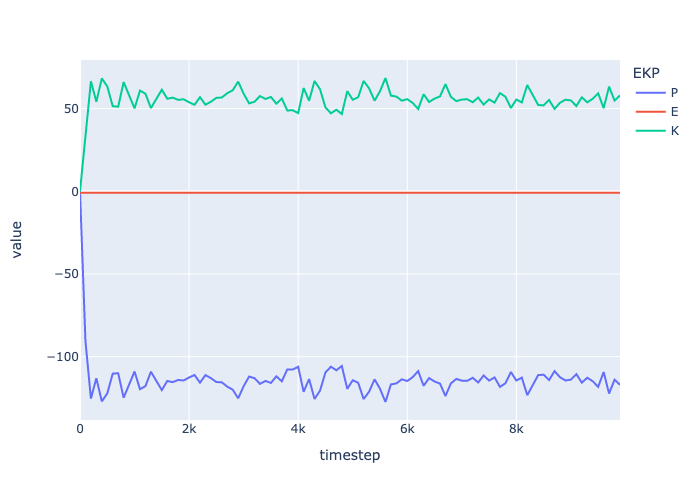
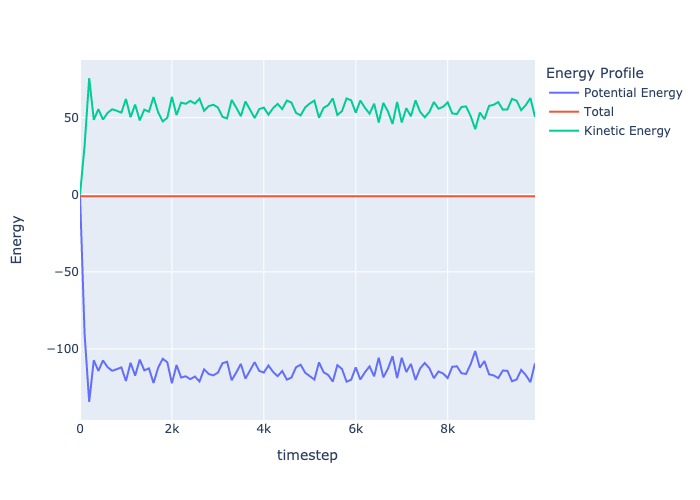
change fig

diff --git a/Step5/traj.py b/Step5/traj.py
@@ -8,18 +8,18 @@ from matplotlib.animation import FuncAnimation
 
 class Traj:
     def __init__(self, iter, atom_num):
-        self.df = pd.DataFrame(columns=["timestep", "EKP", "value"])
+        self.df = pd.DataFrame(columns=["timestep", "Energy Profile", "Energy"])
         self.atom_traj = pd.DataFrame(
-            columns=["timestep", "atom", "p_x", "p_y", "p_z", "v"])
+            columns=["timestep", "atom", "X", "Y", "Z", "velocity"])
 
     def observe(self, system, i):
 
         series_P = pd.Series(
-            [i, "P", system.P], index=self.df.columns)
+            [i, "Potential Energy", system.P], index=self.df.columns)
         series_K = pd.Series(
-            [i, "K", system.K], index=self.df.columns)
+            [i, "Kinetic Energy", system.K], index=self.df.columns)
         series_E = pd.Series(
-            [i, "E", system.total_energy()], index=self.df.columns)
+            [i, "Total", system.total_energy()], index=self.df.columns)
         self.df = self.df.append(
             [series_P, series_E, series_K], ignore_index=True)
         for k in range(len(system.Atoms)):

diff --git a/Step5/postprocess.py b/Step5/postprocess.py
@@ -16,16 +16,16 @@ def Plot(params):
     fig_2 = px.line(
         data_frame=df,
         x="timestep",
-        y="value",
-        color='EKP',
+        y="Energy",
+        color='Energy Profile',
         color_discrete_sequence=px.colors.qualitative.Plotly)
 
     fig_1 = px.scatter_3d(
         data_frame=atom_df,
-        x="p_x",
-        y="p_y",
-        z="p_z",
-        color='v',
+        x="X",
+        y="Y",
+        z="Z",
+        color='velocity',
         range_color=[0, 10],
         size_max=10,
         opacity=0.7,
@@ -49,9 +49,10 @@ def Plot(params):
 def savefig(fig, name):
     frames = []
 
-    for fr in tqdm(fig.frames):
+    for s, fr in enumerate(tqdm(fig.frames)):
         # set main traces to appropriate traces within plotly frame
         fig.update(data=fr.data)
+        fig.layout.sliders[0].update(active=s)
     # generate image of current state
         frames.append(PIL.Image.open(io.BytesIO(fig.to_image(format="png"))))
 
